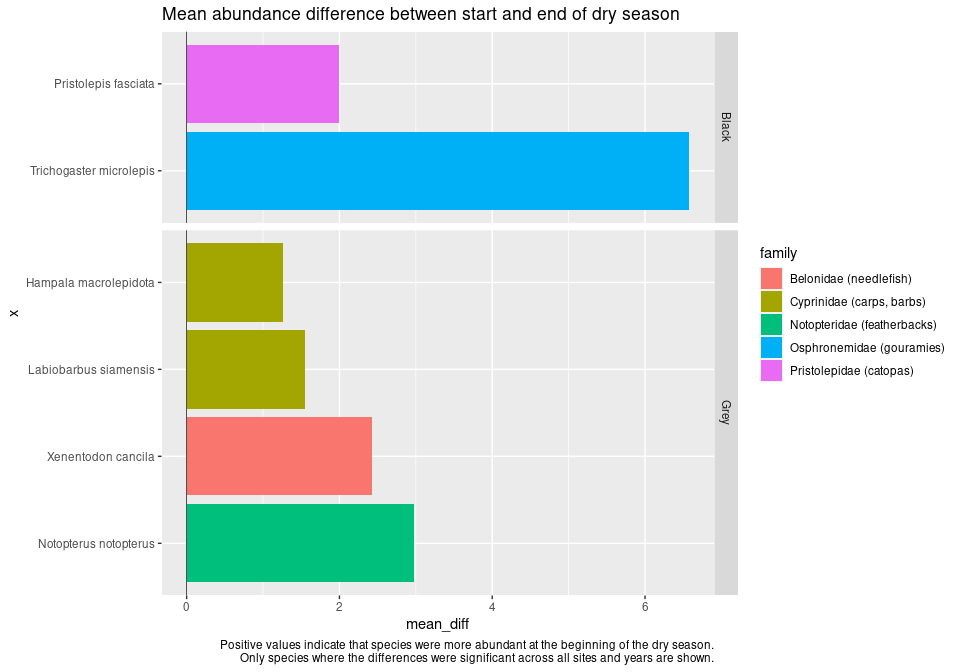
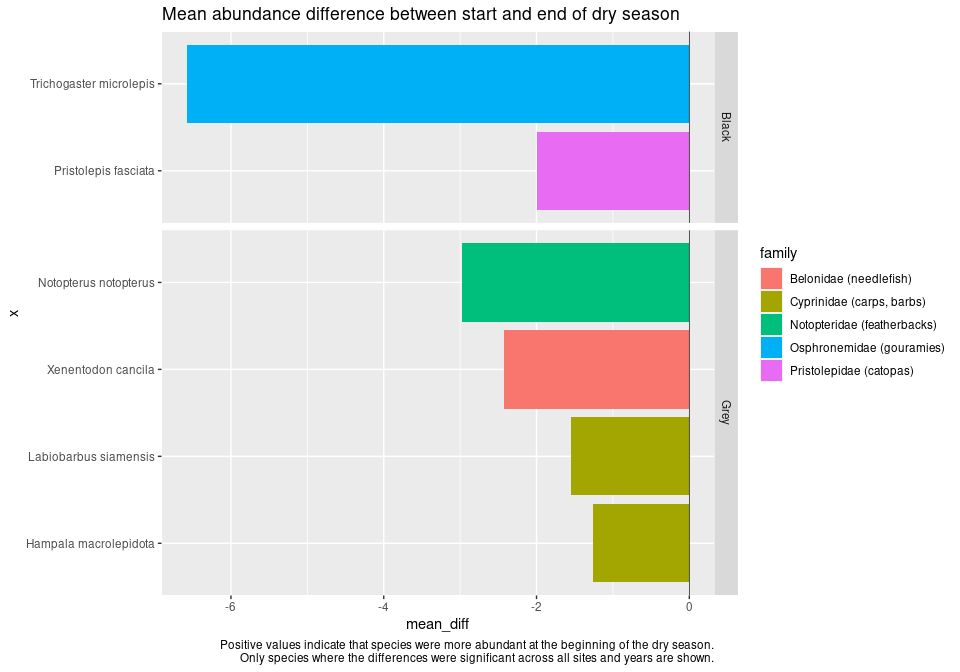
Swap order of betadiversity comparisons

diff --git a/notebooks/beta-diversity-index.md b/notebooks/beta-diversity-index.md
@@ -75,37 +75,7 @@ tbi <- cross2(combinations, type) %>%
                     test.t.perm = T, save.BC = T, 
                     method = "%difference", pa.tr = x[[2]]) 
   })
-```
 
-    ## Registered S3 methods overwritten by 'adegraphics':
-    ##   method         from
-    ##   biplot.dudi    ade4
-    ##   kplot.foucart  ade4
-    ##   kplot.mcoa     ade4
-    ##   kplot.mfa      ade4
-    ##   kplot.pta      ade4
-    ##   kplot.sepan    ade4
-    ##   kplot.statis   ade4
-    ##   scatter.coa    ade4
-    ##   scatter.dudi   ade4
-    ##   scatter.nipals ade4
-    ##   scatter.pco    ade4
-    ##   score.acm      ade4
-    ##   score.mix      ade4
-    ##   score.pca      ade4
-    ##   screeplot.dudi ade4
-
-    ## Registered S3 method overwritten by 'spdep':
-    ##   method   from
-    ##   plot.mst ape
-
-    ## Registered S3 methods overwritten by 'adespatial':
-    ##   method             from       
-    ##   plot.multispati    adegraphics
-    ##   print.multispati   ade4       
-    ##   summary.multispati ade4
-
-``` r
 type_combinations <- cross2(combinations, type) %>%
   map_df(~tibble(comparison = paste(.[[1]][1], .[[1]][2], collapse = "."), 
                  pa_tr = .[[2]]), .id = "type")
@@ -173,7 +143,7 @@ Looking at specific species:
 
 ``` r
 sp_tbi <- change_matrices %$%
-  adespatial::tpaired.krandtest(mat1 = `2`, mat2 = `5`, 
+  adespatial::tpaired.krandtest(mat1 = `5`, mat2 = `2`, 
                                 nperm = 99, list.all = T) %$%
   as.data.frame(t.tests) %>%
   rownames_to_column() %>%
